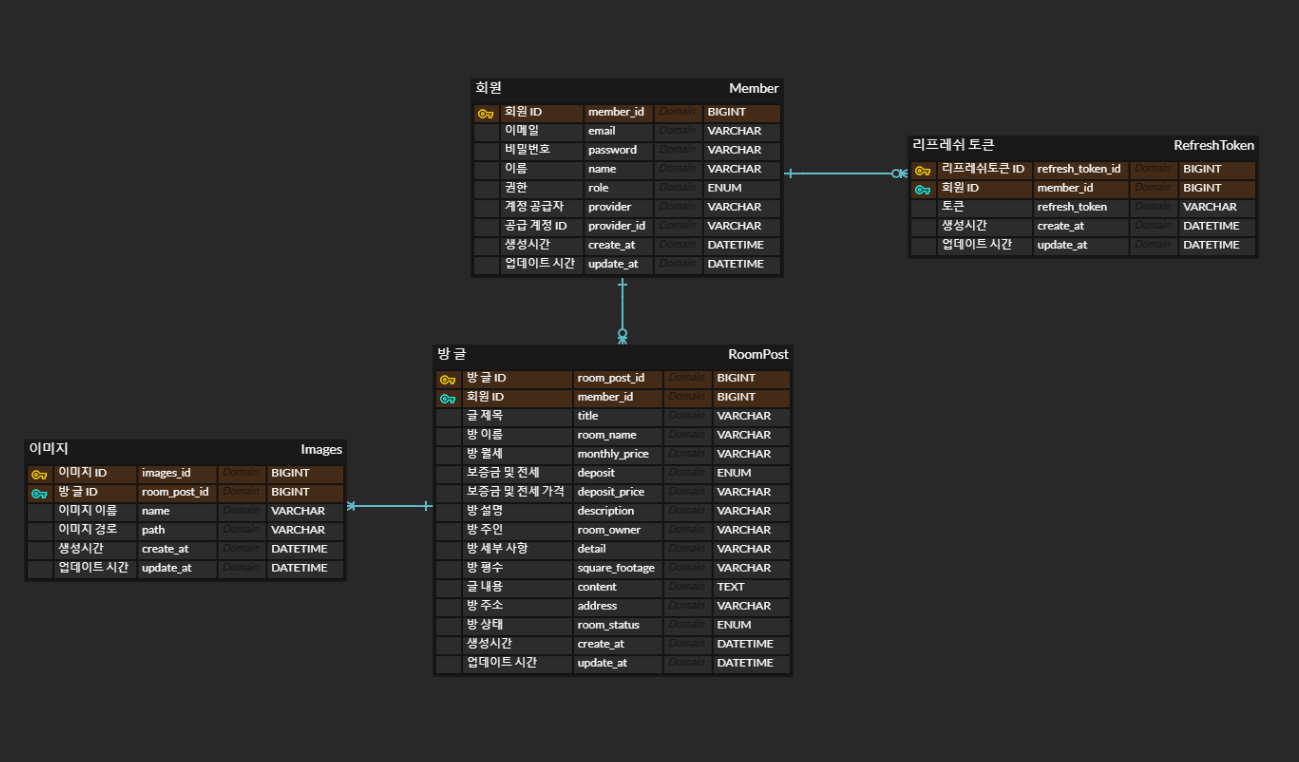
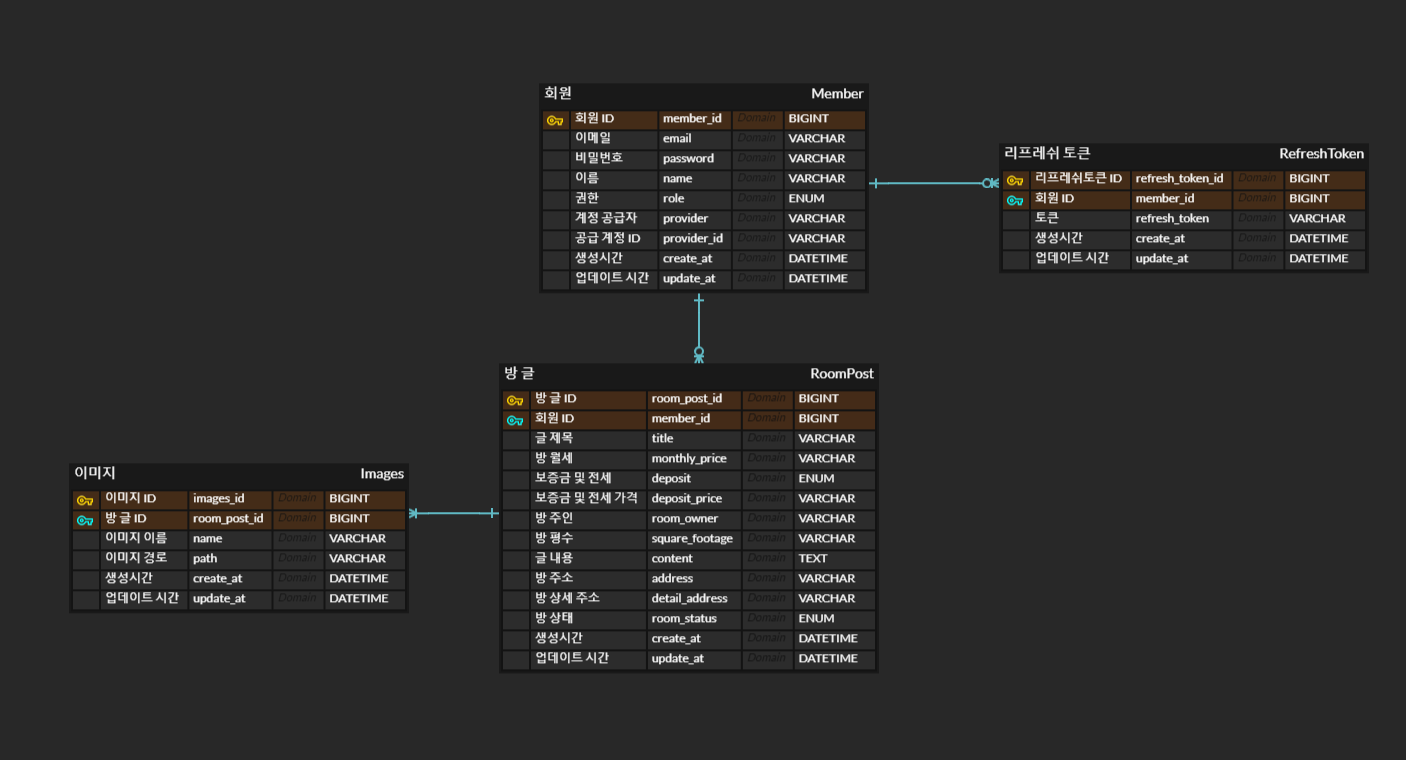
리드미 수정 및 주석과 오타 수정

Changed region(s): [[0.0, 0.4539, 0.6467, 0.8776], [0.3695, 0.0908, 0.9854, 0.3934], [0.4619, 0.4237, 0.4927, 0.4539]]

diff --git a/src/test/java/springboot/yongjunstore/controller/RoomPostControllerTest.java b/src/test/java/springboot/yongjunstore/controller/RoomPostControllerTest.java
@@ -78,10 +78,7 @@ class RoomPostControllerTest {
         RoomPostRequest roomPostRequest = RoomPostRequest.builder()
                 .title("제목")
                 .roomOwner("방주인")
-                .roomName("방이름")
-                .detail("상세설명")
                 .depositPrice("100")
-                .description("부설명")
                 .roomStatus(RoomStatus.임대)
                 .deposit(Deposit.전세)
                 .content("내용입니다. 10글자 이상입니다...")
@@ -89,6 +86,7 @@ class RoomPostControllerTest {
                 .monthlyPrice("10000")
                 .squareFootage("4")
                 .address("주소")
+                .detailAddress("상세 주소")
                 .build();
 
         MockMultipartFile file1 = new MockMultipartFile(
@@ -122,15 +120,16 @@ class RoomPostControllerTest {
 
         RoomPostRequest roomPostRequest = RoomPostRequest.builder()
                 .title("제목")
-                .depositPrice("한글")
                 .roomOwner("방주인")
-                .detail("상세설명")
-                .description("부설명")
                 .roomStatus(RoomStatus.임대)
                 .deposit(Deposit.전세)
                 .monthlyPrice("10000")
                 .squareFootage("4")
                 .address("주소")
+                .content("")
+                .depositPrice("")
+                .memberId(null)
+                .detailAddress("상세 주소")
                 .build();
 
         MockMultipartFile file1 = new MockMultipartFile(
@@ -151,8 +150,7 @@ class RoomPostControllerTest {
                         .header(HttpHeaders.AUTHORIZATION, jwtDto().getGrantType()+" "+jwt.getAccessToken()))
                 .andExpect(status().isBadRequest())
                 .andExpect(jsonPath("$.content").value("내용을 입력해 주세요.")) // 길이 정규식 테스트
-                .andExpect(jsonPath("$.roomName").value("방 이름은 필수값 입니다.")) // 필수 값 테스트
-                .andExpect(jsonPath("$.depositPrice").value("숫자만 입력가능합니다. 1만원 단위")) // 숫자 정규식 테스트
+                .andExpect(jsonPath("$.depositPrice").value("1만원 단위이며 억 단위를 넘을 수 없습니다.")) // 숫자 정규식 테스트
                 .andExpect(jsonPath("$.memberId").value("/member/find/{email}을 호출하지 못해 id를 받아 오지못했습니다.")) // memberId가 없는 경우
                 .andDo(print());
     }
@@ -168,10 +166,7 @@ class RoomPostControllerTest {
         RoomPost roomPost = RoomPost.builder()
                 .title("제목")
                 .roomOwner("방주인")
-                .roomName("방이름")
-                .detail("상세설명")
                 .depositPrice("100")
-                .description("부설명")
                 .roomStatus(RoomStatus.임대)
                 .deposit(Deposit.전세)
                 .content("내용입니다. 10글자 이상입니다...")
@@ -179,6 +174,7 @@ class RoomPostControllerTest {
                 .monthlyPrice("10000")
                 .squareFootage("4")
                 .address("주소")
+                .address("상세 주소")
                 .build();
 
         RoomPost saveRoomPost = roomPostRepository.save(roomPost);
@@ -220,10 +216,7 @@ class RoomPostControllerTest {
         RoomPost roomPost = RoomPost.builder()
                 .title("제목")
                 .roomOwner("방주인")
-                .roomName("방이름")
-                .detail("상세설명")
                 .depositPrice("100")
-                .description("부설명")
                 .roomStatus(RoomStatus.임대)
                 .deposit(Deposit.전세)
                 .content("내용입니다. 10글자 이상입니다...")
@@ -231,6 +224,7 @@ class RoomPostControllerTest {
                 .monthlyPrice("10000")
                 .squareFootage("4")
                 .address("주소")
+                .detailAddress("상세 주소")
                 .build();
 
         RoomPost saveRoomPost = roomPostRepository.save(roomPost);
@@ -278,10 +272,7 @@ class RoomPostControllerTest {
             roomPost = RoomPost.builder()
                     .title("제목")
                     .roomOwner("방주인")
-                    .roomName("방이름")
-                    .detail("상세설명")
                     .depositPrice("100")
-                    .description("부설명")
                     .roomStatus(RoomStatus.임대)
                     .deposit(Deposit.전세)
                     .content("내용입니다. 10글자 이상입니다...")
@@ -289,6 +280,7 @@ class RoomPostControllerTest {
                     .monthlyPrice("10000")
                     .squareFootage("4")
                     .address("주소")
+                    .detailAddress("상세 주소")
                     .build();
 
             RoomPost saveRoomPost = roomPostRepository.save(roomPost);
@@ -343,10 +335,7 @@ class RoomPostControllerTest {
             roomPost = RoomPost.builder()
                     .title("제목")
                     .roomOwner("방주인")
-                    .roomName("방이름")
-                    .detail("상세설명")
                     .depositPrice("100")
-                    .description("부설명")
                     .roomStatus(RoomStatus.임대)
                     .deposit(Deposit.전세)
                     .content("내용입니다. 10글자 이상입니다...")
@@ -354,6 +343,7 @@ class RoomPostControllerTest {
                     .monthlyPrice("10000")
                     .squareFootage("4")
                     .address("주소")
+                    .detailAddress("상세 주소")
                     .build();
 
             RoomPost saveRoomPost = roomPostRepository.save(roomPost);

diff --git a/src/main/java/springboot/yongjunstore/config/SwaggerConfig.java b/src/main/java/springboot/yongjunstore/config/SwaggerConfig.java
@@ -89,10 +89,9 @@ public class SwaggerConfig {
     private void generateErrorCodeResponseExample(Operation operation, ErrorCode[] errorCodes) {
         ApiResponses responses = operation.getResponses();
 
-        // ErrorCodeHolder(에러 응답값) 객체를 만들고 에러 코드별로 그룹화
-        Map<Integer, List<ErrorCodeHolder>> statusWithExampleHolders = Arrays.stream(errorCodes)
-                .map(
-                        errorCode -> ErrorCodeHolder.builder()
+        // ErrorCodeHolder(에러 응답값) 객체를 만들고 에러 코드 별로 그룹화
+        Map<Integer, List<ErrorCodeHolder>> statusWithErrorCodeHolders = Arrays.stream(errorCodes)
+                .map(errorCode -> ErrorCodeHolder.builder()
                                 .holder(getSwaggerExample(errorCode))
                                 .code(errorCode.getStatus().value())
                                 .name(errorCode.name())
@@ -100,8 +99,8 @@ public class SwaggerConfig {
                 )
                 .collect(Collectors.groupingBy(ErrorCodeHolder::getCode));
 
-        // ExampleHolders를 ApiResponses에 추가
-        addExamplesToResponses(responses, statusWithExampleHolders);
+        // ApiResponses 에 추가
+        addExamplesToResponses(responses, statusWithErrorCodeHolders);
     }
 
 
@@ -109,40 +108,40 @@ public class SwaggerConfig {
     private void generateErrorCodeResponseExample(Operation operation, ErrorCode errorCode) {
         ApiResponses responses = operation.getResponses();
 
-        // ErrorCodeHolder 객체 생성 및 ApiResponses에 추가
-        ErrorCodeHolder exampleHolder = ErrorCodeHolder.builder()
+        // ErrorCodeHolder 객체 생성 및 ApiResponses 에 추가
+        ErrorCodeHolder errorCodeHolder = ErrorCodeHolder.builder()
                 .holder(getSwaggerExample(errorCode))
                 .name(errorCode.name())
                 .code(errorCode.getStatus().value())
                 .build();
-        addExamplesToResponses(responses, exampleHolder);
+        addExamplesToResponses(responses, errorCodeHolder);
     }
 
 
     // ErrorCodeResponse 형태의 예시 객체 생성
     private Example getSwaggerExample(ErrorCode errorCode) {
-        ErrorCodeResponse errorResponseDto = ErrorCodeResponse.builder()
+        ErrorCodeResponse errorResponse = ErrorCodeResponse.builder()
                 .errorCode(errorCode)
                 .build();
         Example example = new Example();
-        example.setValue(errorResponseDto);
+        example.setValue(errorResponse);
 
         return example;
     }
 
 
-    // ErrorCodeHolder를 ApiResponses에 추가
-    private void addExamplesToResponses(ApiResponses responses, Map<Integer, List<ErrorCodeHolder>> statusWithExampleHolders) {
-        statusWithExampleHolders.forEach(
+    // ErrorCodeHolder 를 ApiResponses 에 추가
+    private void addExamplesToResponses(ApiResponses responses, Map<Integer, List<ErrorCodeHolder>> statusWithErrorCodeHolders) {
+        statusWithErrorCodeHolders.forEach(
                 (status, v) -> {
                     Content content = new Content();
                     MediaType mediaType = new MediaType();
                     ApiResponse apiResponse = new ApiResponse();
 
-                    v.forEach(
-                            exampleHolder -> mediaType.addExamples(
-                                    exampleHolder.getName(),
-                                    exampleHolder.getHolder()
+                    v.forEach(errorCodeHolder ->
+                            mediaType.addExamples(
+                                    errorCodeHolder.getName(),
+                                    errorCodeHolder.getHolder()
                             )
                     );
                     content.addMediaType("application/json", mediaType);
@@ -153,15 +152,15 @@ public class SwaggerConfig {
     }
 
 
-    private void addExamplesToResponses(ApiResponses responses, ErrorCodeHolder exampleHolder) {
+    private void addExamplesToResponses(ApiResponses responses, ErrorCodeHolder errorCodeHolder) {
         Content content = new Content();
         MediaType mediaType = new MediaType();
         ApiResponse apiResponse = new ApiResponse();
 
-        mediaType.addExamples(exampleHolder.getName(), exampleHolder.getHolder());
+        mediaType.addExamples(errorCodeHolder.getName(), errorCodeHolder.getHolder());
         content.addMediaType("application/json", mediaType);
         apiResponse.content(content);
-        responses.addApiResponse(String.valueOf(exampleHolder.getCode()), apiResponse);
+        responses.addApiResponse(String.valueOf(errorCodeHolder.getCode()), apiResponse);
     }
 
 }

diff --git a/src/test/java/springboot/yongjunstore/service/RoomPostServiceTest.java b/src/test/java/springboot/yongjunstore/service/RoomPostServiceTest.java
@@ -77,10 +77,7 @@ class RoomPostServiceTest {
         RoomPostRequest roomPostRequest = RoomPostRequest.builder()
                 .title("제목")
                 .roomOwner("방주인")
-                .roomName("방이름")
-                .detail("상세설명")
                 .depositPrice("전세금")
-                .description("부설명")
                 .roomStatus(RoomStatus.임대)
                 .deposit(Deposit.전세)
                 .content("내용입니다. 10글자 이상입니다...")
@@ -88,6 +85,7 @@ class RoomPostServiceTest {
                 .monthlyPrice("보증금")
                 .squareFootage("4")
                 .address("주소")
+                .detailAddress("상세 주소")
                 .build();
 
         // when
@@ -114,10 +112,7 @@ class RoomPostServiceTest {
         RoomPostRequest roomPostRequest = RoomPostRequest.builder()
                 .title("제목")
                 .roomOwner("방주인")
-                .roomName("방이름")
-                .detail("상세설명")
                 .depositPrice("전세금")
-                .description("부설명")
                 .roomStatus(RoomStatus.임대)
                 .deposit(Deposit.전세)
                 .content("내용입니다. 10글자 이상입니다...")
@@ -125,6 +120,7 @@ class RoomPostServiceTest {
                 .monthlyPrice("보증금")
                 .squareFootage("4")
                 .address("주소")
+                .detailAddress("상세 주소")
                 .build();
 
 
@@ -152,10 +148,7 @@ class RoomPostServiceTest {
         RoomPost roomPost = RoomPost.builder()
                 .title("제목")
                 .roomOwner("방주인")
-                .roomName("방이름")
-                .detail("상세설명")
                 .depositPrice("전세금")
-                .description("부설명")
                 .roomStatus(RoomStatus.임대)
                 .deposit(Deposit.전세)
                 .content("내용입니다. 10글자 이상입니다...")
@@ -163,6 +156,7 @@ class RoomPostServiceTest {
                 .monthlyPrice("보증금")
                 .squareFootage("4")
                 .address("주소")
+                .detailAddress("상세 주소")
                 .build();
 
         RoomPost saveRoomPost = roomPostRepository.save(roomPost);

diff --git a/src/test/java/springboot/yongjunstore/service/FileServiceTest.java b/src/test/java/springboot/yongjunstore/service/FileServiceTest.java
@@ -43,8 +43,8 @@ class FileServiceTest {
         // given
         RoomPost roomPost = RoomPost.builder()
                 .title("제목 입니다.")
-                .roomName("방 이름입니다.")
                 .address("주소입니다.")
+                .detailAddress("상세 주소")
                 .content("내용입니다. 내용입니다.")
                 .roomOwner("방주인")
                 .depositPrice("10000")
@@ -76,8 +76,8 @@ class FileServiceTest {
         // given
         RoomPost roomPost = RoomPost.builder()
                 .title("제목 입니다.")
-                .roomName("방 이름입니다.")
                 .address("주소입니다.")
+                .detailAddress("상세 주소")
                 .content("내용입니다. 내용입니다.")
                 .roomOwner("방주인")
                 .depositPrice("10000")
@@ -109,8 +109,8 @@ class FileServiceTest {
         // given
         RoomPost roomPost = RoomPost.builder()
                 .title("제목 입니다.")
-                .roomName("방 이름입니다.")
                 .address("주소입니다.")
+                .detailAddress("상세 주소")
                 .content("내용입니다. 내용입니다.")
                 .roomOwner("방주인")
                 .depositPrice("10000")
@@ -142,8 +142,8 @@ class FileServiceTest {
         // given
         RoomPost roomPost = RoomPost.builder()
                 .title("제목 입니다.")
-                .roomName("방 이름입니다.")
                 .address("주소입니다.")
+                .detailAddress("상세 주소")
                 .content("내용입니다. 내용입니다.")
                 .roomOwner("방주인")
                 .depositPrice("10000")

diff --git a/src/main/java/springboot/yongjunstore/request/RoomPostRequest.java b/src/main/java/springboot/yongjunstore/request/RoomPostRequest.java
@@ -62,4 +62,19 @@ public class RoomPostRequest {
     @NotNull(message = "/member/find/{email}을 호출하지 못해 id를 받아 오지못했습니다.")
     private Long memberId; // 방 주인 정보
 
+    @Builder
+    public RoomPostRequest(Long id, String title, String monthlyPrice, Deposit deposit, String depositPrice, String roomOwner, String squareFootage, String content, String address, String detailAddress, RoomStatus roomStatus, Long memberId) {
+        this.id = id;
+        this.title = title;
+        this.monthlyPrice = monthlyPrice;
+        this.deposit = deposit;
+        this.depositPrice = depositPrice;
+        this.roomOwner = roomOwner;
+        this.squareFootage = squareFootage;
+        this.content = content;
+        this.address = address;
+        this.detailAddress = detailAddress;
+        this.roomStatus = roomStatus;
+        this.memberId = memberId;
+    }
 }

diff --git a/src/main/java/springboot/yongjunstore/config/UserPrincipal.java b/src/main/java/springboot/yongjunstore/config/UserPrincipal.java
@@ -14,7 +14,6 @@ public class UserPrincipal extends User {
     public UserPrincipal(Member member){
         super(member.getEmail(), member.getPassword(), List.of(
                 new SimpleGrantedAuthority("ROLE_"+member.getRole())
-                //, new SimpleGrantedAuthority("WRITE") // DB에 값 넣는 걸로 변경 필요
         ));
     }
 }

diff --git a/src/main/java/springboot/yongjunstore/request/CustomOAuth2User.java b/src/main/java/springboot/yongjunstore/request/CustomOAuth2User.java
@@ -23,7 +23,6 @@ public class CustomOAuth2User implements OAuth2User {
         return oAuth2User.getName();
     }
 
-    // Custom methods to modify attributes if needed
     public void addAttribute(String key, Object value) {
         attributes.put(key, value);
     }

diff --git a/README.md b/README.md
@@ -9,8 +9,42 @@
 
 ## 개발 기간
 
-- 2024-03-08 ~ 진행중
+- 2024-03-08 ~ 진행 중
 - 주기적으로 업데이트 하며 느리더라도 꾸준히 작업을 이어갈 예정입니다.
+
+<br>
+
+---
+
+## 적용 해본 기술/기능
+
+- 테스트
+    - JUnit, Mockito를 사용하여 단위 테스트를 적용
+
+- 인증/인가
+    - Session방식이 아닌 JWT를 사용하여 사용자의 인증 인가 구현
+    - Spring Security를 사용해 JWT의 인증 인가를 관리
+    - Outh2.0을 이용해서 소셜(google)로그인의 인증 인가를 Spring Security로 관리
+
+- Redis
+    - MySQL과 Redis를 같이 사용하여 TTL(Time To Live) 데이터는 Redis에서 관리하도록 적용
+
+- Error/Handler
+    - Error를 객체화하고  공통화하여 ErrorResponse로 관리
+    - 핸들러를 사용해서 해당 Exception의 반환을 공통화
+
+- Swagger
+    - Swagger의 Response를 미리 정의 해둔 객체를 사용할 수 있도록 어노테이션 커스텀
+        - <a href="https://yongjun96.github.io/posts/Rest-Docs-+-Swagger%EB%AC%B8%EC%84%9C-%EC%9E%91%EC%84%B1(@ModelAttribute,-@RequestPart-%EB%8C%80%EC%9D%91-%EB%AC%B8%EC%A0%9C)/" target="_blank">epages의 restdocs-api-spec에서 Swagger로 돌아온 이유</a>
+- Infra
+    - Jenkins가 아닌 GitHub Actions를 사용해서 파이프 라인 구성
+        - <a href="https://yongjun96.github.io/posts/Github-ACtions%EC%9C%BC%EB%A1%9C-EC2-%EB%B0%B0%ED%8F%AC-%EC%9E%90%EB%8F%99%ED%99%94-%ED%95%98%EA%B8%B0/" target="_blank">GitHub Actions 배포 자동화 적용기</a>
+    - Docker와 Docker-compose를 사용해서 컨테이너 환경 구축
+    - Submodule을 사용한 민감 정보 관리
+    - Route53으로 DNS 적용
+    - Elastic Load Balancer를 이용해 SSL/TLS 적용
+    - RDS (MySql 8.0) 사용
+    - S3와 CloudFront로 정적 웹페이지 배포
 
 <br>
 
